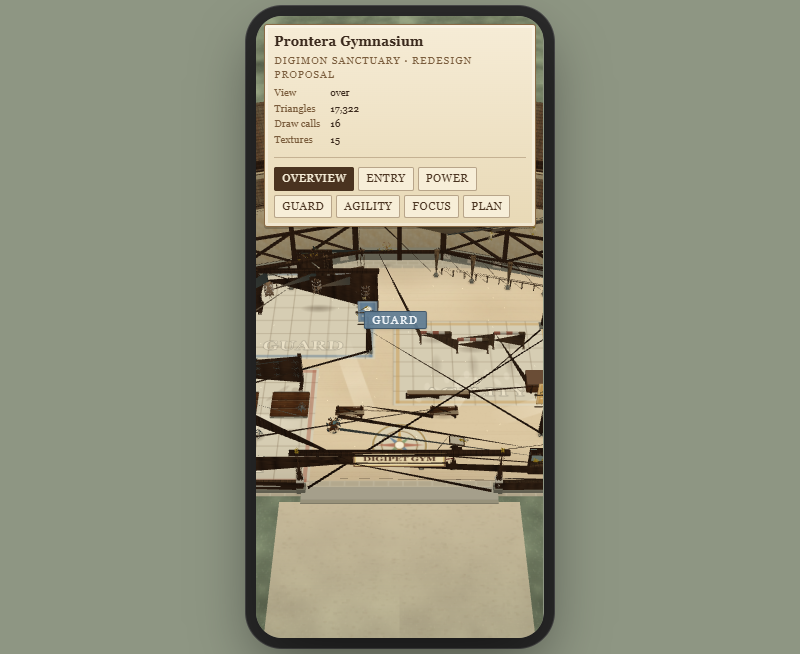
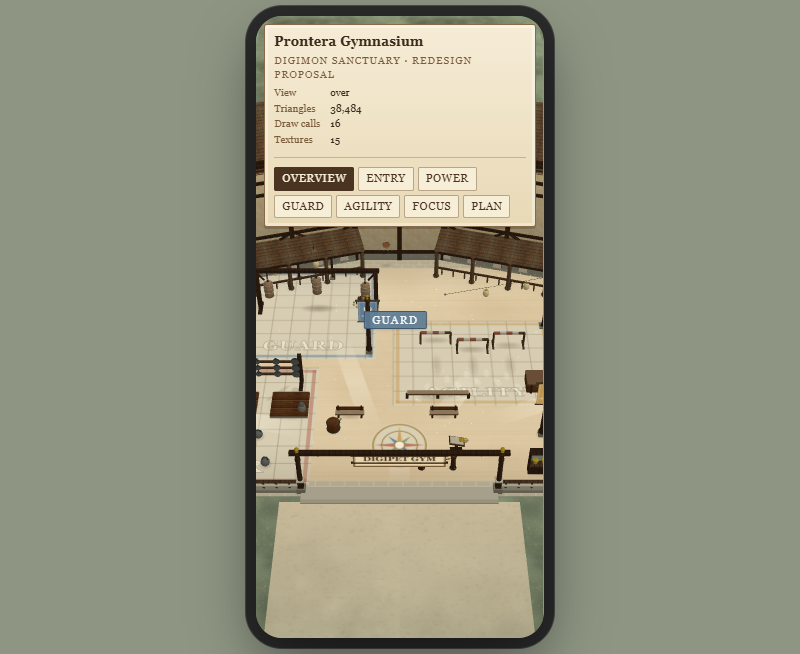
fix(gym): preserve indexed mesh topology and seat the continuous canopy
Fix cross-object triangles, canopy supports, wall gaps and banner hardware. Staging preview only; no production or gameplay rule changes.

diff --git a/docs/proposals/gym-redesign/gym-redesign.js b/docs/proposals/gym-redesign/gym-redesign.js
@@ -120,6 +120,10 @@ function put(geo,matName,colour,x,y,z,rot,scale){
   return g;
 }
 function mergeInto(geos){
+  // Batches are triangle lists. Indexed primitives must be expanded first;
+  // otherwise adjacent objects are stitched into long, unrelated triangles.
+  geos=geos.map(g=>g.index?g.toNonIndexed():g);
+  for(const g of geos)if(g.attributes.position.count%3!==0)throw Error('Gym batch contains an incomplete triangle');
   let n=0;for(const g of geos)n+=g.attributes.position.count;
   const pos=new Float32Array(n*3),nor=new Float32Array(n*3),uv=new Float32Array(n*2),col=new Float32Array(n*3);
   let o=0;
@@ -351,9 +355,8 @@ function buildShell(){
       box(.86,.30,.9,'flat',0xa8a48c,x,.15,z,[0,f.theta,0]);
     }
     box(f.len,1.0,.62,'flat',0x9e9a83,...f.point(0,.5,0),[0,f.theta,0]);
-    // plaster wall + upper band
-    box(f.len,7.6,.5,'plaster',PLASTER,...f.point(0,5.2,0),[0,f.theta,0]);
-    box(f.len,1.5,.5,'plaster',PLASTER,...f.point(0,10.1,0),[0,f.theta,0]);
+    // Continuous plaster backing up to the roof eave: no open horizontal slit.
+    box(f.len,9.8,.5,'plaster',PLASTER,...f.point(0,5.9,0),[0,f.theta,0]);
     // exposed frame: posts, rails, knee braces on both faces
     for(const face of [-1,1]){
       const v=face*.30;
@@ -385,8 +388,7 @@ function buildShell(){
   }
   // connector bay between the wings
   box(8,1.0,.72,'flat',0x9e9a83,69,.5,12.5);
-  box(8,7.6,.5,'plaster',PLASTER,69,5.2,12.5);
-  box(8,1.5,.5,'plaster',PLASTER,69,10.1,12.5);
+  box(8,9.8,.5,'plaster',PLASTER,69,5.9,12.5);
   for(const x of [65,69,73]){
     box(.42,9.6,.24,'wood',WALNUT,x,4.9,12.85);box(.42,9.6,.24,'wood',WALNUT,x,4.9,12.15);
   }
@@ -398,8 +400,7 @@ function buildShell(){
   for(const [wx,face] of [[43,-1],[95,1]]){
     const zc=23.75,len=10.5;
     box(len,1.0,.66,'flat',0x9e9a83,wx,.5,zc,[0,Math.PI/2,0]);
-    box(len,7.6,.52,'plaster',PLASTER,wx,5.2,zc,[0,Math.PI/2,0]);
-    box(len,1.5,.52,'plaster',PLASTER,wx,10.1,zc,[0,Math.PI/2,0]);
+    box(len,9.8,.52,'plaster',PLASTER,wx,5.9,zc,[0,Math.PI/2,0]);
     for(const z of [18.5,21.1,23.7,26.3,29]){
       box(.32,9.5,.22,'wood',WALNUT,wx+face*.30,4.9,z,[0,Math.PI/2,0]);
       box(.26,1.9,.20,'wood',WALNUT,wx+face*.30,10.2,z,[0,Math.PI/2,0]);
@@ -468,18 +469,12 @@ function buildShell(){
       const u=-f.len/2+(i+.5)*f.len/Math.round(f.len/1.05);
       lathe([[0,0],[.055,0],[.075,.30],[.055,.62],[.09,.66],[.09,.74],[0,.74]],7,'wood',ASH,...f.point(u,.30,depth),[0,f.theta,0]);
     }
-    // veranda roof: fewer, wider plank strips so it reads as a clean plane
-    const top=10.4,bot=9.45,ang=Math.atan2(top-bot,depth);
-    const nStrip=Math.max(5,Math.round(f.len/2.4));
-    for(let i=0;i<nStrip;i++){
-      const u=-f.len/2+(i+.5)*f.len/nStrip;
-      box(1.9,.10,Math.hypot(depth,top-bot)+.5,'roof',0xcbb08a,...f.point(u,(top+bot)/2-.06,depth/2),[ang,f.theta,0,'YXZ']);
-    }
-    box(f.len+.4,.16,.22,'wood',WALNUT,...f.point(0,bot-.02,depth),[0,f.theta,0]);
-    for(let i=0;i<Math.round(f.len/1.6);i++){
-      const u=-f.len/2+(i+.5)*f.len/Math.round(f.len/1.6);
-      box(.10,.30,.10,'wood',WALNUT,...f.point(u,bot-.20,depth+.04),[0,f.theta,0]); // turned eave pegs
-    }
+    // One continuous canopy, seated on the 3.06 m posts rather than floating
+    // at the upper wall. Roof texture supplies the detail without open strips.
+    const top=3.80,bot=3.06,ang=Math.atan2(top-bot,depth);
+    box(f.len+.4,.14,Math.hypot(depth,top-bot)+.28,'roof',0xcbb08a,...f.point(0,(top+bot)/2,depth/2),[ang,f.theta,0,'YXZ']);
+    box(f.len+.4,.22,.20,'wood',WALNUT,...f.point(0,bot-.11,depth),[0,f.theta,0]);
+    box(f.len+.4,.18,.20,'wood',WALNUT,...f.point(0,top-.14,0),[0,f.theta,0]);
   }
 }
 function buildGate(){
@@ -720,17 +715,17 @@ function banner(x,z,text,css){
   /* Self-supporting banner mast: stone base, turned mast, iron crossarm and
      brass finials. The cloth hangs from real hardware instead of mid-air. */
   box(.50,.34,.50,'flat',0x8d8974,x,.17,z);
-  post(x,.30,z,4.55,'wood',WALNUT);
-  lathe([[0,0],[.10,0],[.10,.12],[.04,.22],[.12,.30],[.12,.40],[0,.46]],8,'flat',BRASS,x,4.80,z);
-  box(1.94,.11,.11,'wood',ASH,x,4.52,z);
+  post(x,.30,z,5.65,'wood',WALNUT);
+  lathe([[0,0],[.10,0],[.10,.12],[.04,.22],[.12,.30],[.12,.40],[0,.46]],8,'flat',BRASS,x,5.90,z);
+  box(1.94,.11,.11,'wood',ASH,x,5.76,z);
   for(const dx of [-.86,.86]){
-    box(.06,.30,.06,'flat',IRON,x+dx,4.40,z);
-    put(new T.SphereGeometry(.055,6,5),'flat',BRASS,x+dx,4.24,z);
+    box(.06,.30,.06,'flat',IRON,x+dx,5.59,z);
+    put(new T.SphereGeometry(.055,6,5),'flat',BRASS,x+dx,5.43,z);
   }
   const m=new T.Mesh(new T.PlaneGeometry(1.55,2.20),new T.MeshBasicMaterial({map:tex,side:T.DoubleSide}));
   m.position.set(x,4.6,z+.005);scene.add(m);
-  box(1.66,.06,.06,'wood',ASH,x,4.50,z);
-  box(1.70,.06,.08,'wood',ASH,x,3.20,z);
+  box(1.66,.06,.06,'wood',ASH,x,5.70,z);
+  box(1.70,.06,.08,'wood',ASH,x,3.50,z);
   shadow(x,z,.44,.44,.26);
   return m;
 }
@@ -900,8 +895,8 @@ banner(79.7,33.4,BAYS.agility.label,BAYS.agility.css);
 banner(93.1,27.2,BAYS.focus.label,BAYS.focus.css);
 
 /* Festoon lights hang from the two veranda eaves, sagging between posts. */
-lanternString([44.2,20.9],[65.2,15.2],9.32,.55);
-lanternString([72.8,20.9],[93.8,15.2],9.32,.55);
+lanternString([44.2,20.9],[65.2,15.2],3.0,.15);
+lanternString([72.8,20.9],[93.8,15.2],3.0,.15);
 
 
 

diff --git a/docs/proposals/gym-redesign/README.md b/docs/proposals/gym-redesign/README.md
@@ -21,9 +21,15 @@ Sanctuary textures, and the real courtyard coordinates from
 in vertex colour - the same pipeline the plaza uses - so the frames show what
 the engine would actually draw, not a Blender render.
 
-Measured on this scene at 800x654: **17,322 triangles, 18 draw calls,
-17 textures, no console errors or warnings.** That is cheaper than most single
-character sprites and comfortably inside the mobile budget the hub already holds.
+Measured after the topology correction: **38,484 batched triangles, 18 draw calls,
+17 textures, no console errors or warnings.** Separate floor/decal meshes are not
+included in the batch triangle counter. Mobile performance is not certified.
+
+The previous 17,322-triangle report was invalid: indexed primitives were copied
+into a non-indexed buffer without expanding their indices. This both corrupted
+the count and joined unrelated objects into long triangles across the courtyard.
+`geometry-regression.cjs` now tests indexed lathes, rings and spheres separated
+in space, including triangle preservation and absence of cross-object edges.
 
 ## Run it
 
@@ -148,28 +154,21 @@ threshold, and the four training rows stay clear from the court to the veranda.
 
 ## Review status
 
-Automated checks run against the study:
+The owner's repeat report of building lines exposed the indexed-mesh batching
+bug described above. Earlier AABB and image-contrast checks did not detect it;
+they were not evidence of a finished visual result.
 
-- zero console errors or warnings at every view, desktop and phone frame;
-- geometry audit (`?audit=1`, 1,001 parts): nothing sits below the court plane;
-  no loose prop leaves the courtyard envelope - only the shell's own roof
-  overhangs and the gate threshold step project past the floor polygon - and
-  the three ridges agree at 13.2 m;
-- reachability audit: every station is clear at floor and body height. The
-  six remaining AABB hits are false positives - the three stone weights at the
-  corners of the lifting platforms, which are intended dressing, and the
-  diagonal veranda beam at the three guard stations (its bounding box reaches
-  the row; the real beam is 4.2 m away);
-- connectivity audit: every freestanding prop chain resolves to the ground.
-  The twelve components the AABB probe still reads as floating are all carried
-  by `beamBetween` hardware it cannot see: the two gate-sign chains, the chalk
-  stool, the bell-post bell and clapper, the three archery-butt legs, the
-  broom, the barrel ladle and the two lantern strings;
-- framing audit: all four courtyard corners and all four ridges project inside
-  the frame at the overview and plan views; each bay view centres its bay;
-- budget: 17.3k triangles (17,322), 18 draw calls, 17 textures.
+Current checks:
 
-**Not** verified: the visual judgement itself. This pass was made without a
-human or vision-capable reviewer looking at the frames, so colour balance, prop
-clutter and whether each bay reads as its stat still need the owner's eye. The
-plan is to iterate on that feedback before anything is ported into the game.
+- topology regression passes for mixed indexed and non-indexed primitives;
+- audit records 952 parts, with none below the court plane;
+- overview rendered with 18 calls / 17 textures and no console errors or warnings;
+- veranda roofs are continuous surfaces at the supporting posts, rather than
+  disconnected strips floating near the upper wall;
+- wall backing is continuous, and banner hardware meets the raised cloth;
+- corrected overview and entry were inspected in the actual game scene in a
+  temporary staging build, not only in the standalone viewer.
+
+The game preview leaves shared collision and gameplay rules unchanged. A full
+prop-collision/seat review and owner visual acceptance are still required before
+production integration. Neither production nor PR #180 is part of this work.
